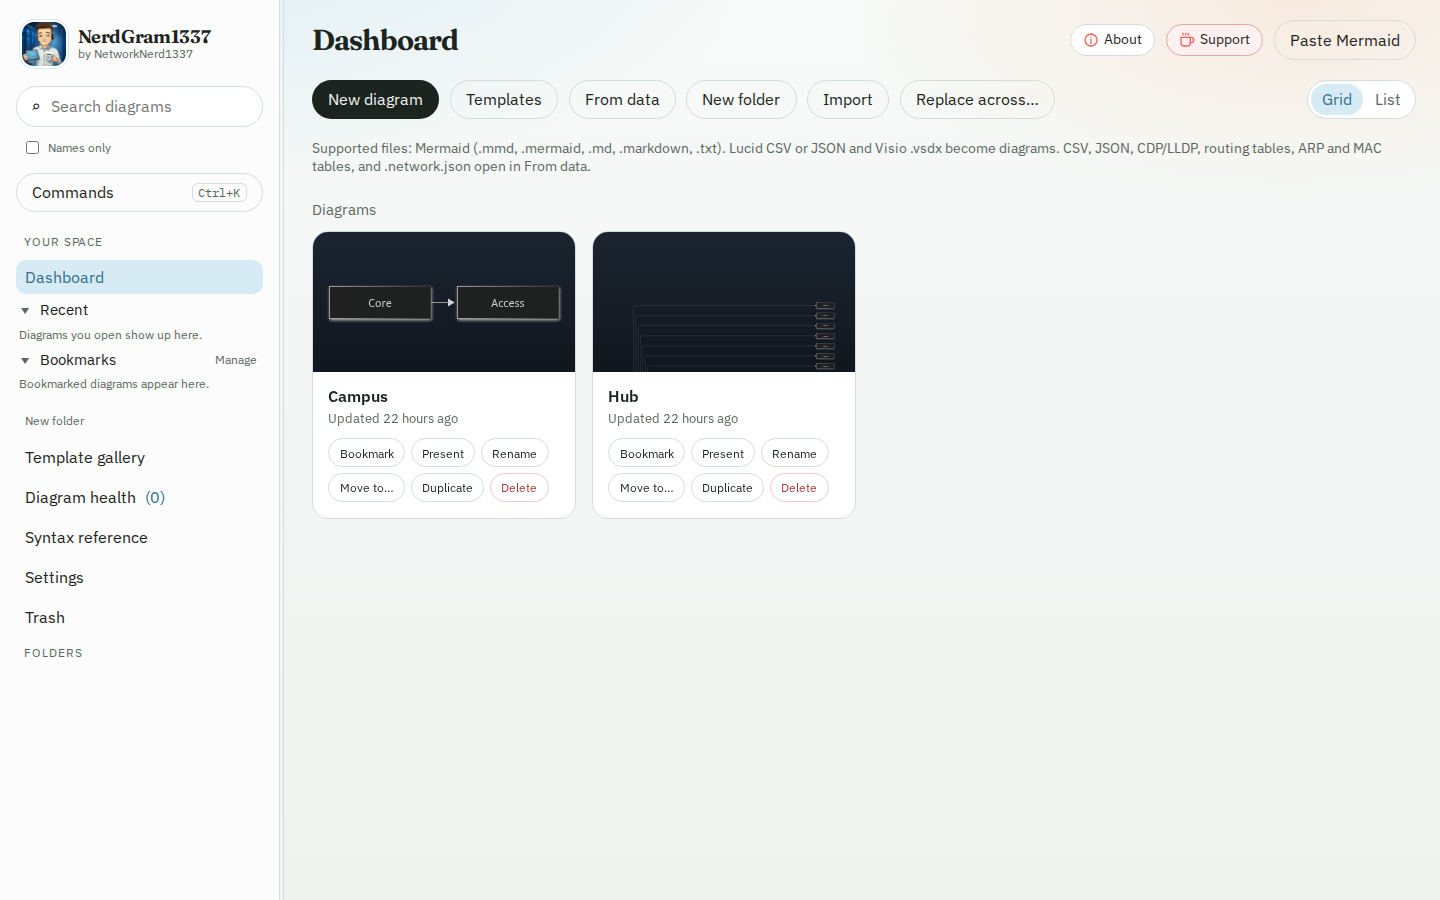
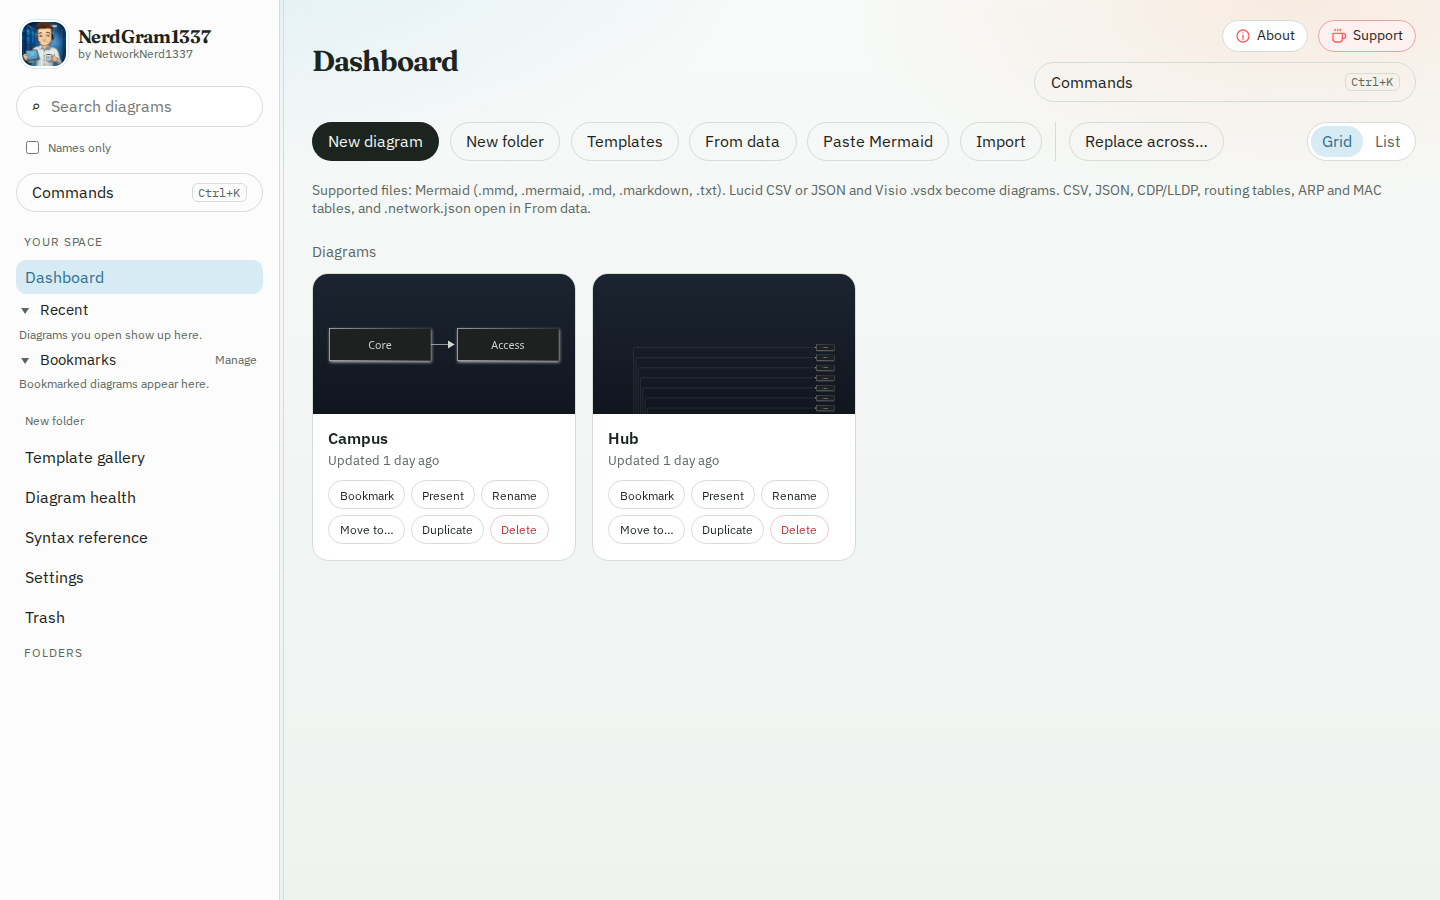
Line up Paste Mermaid with From data and reorder dashboard actions (#286)
Removes the extra Paste Mermaid code pill so both new-diagram screens start the same way. Moves Paste Mermaid out of the header and New folder next to New diagram. The dashboard actions now read New diagram, New folder, Templates, From data, Paste Mermaid, Import, then Replace across last. The header keeps About, Support and Commands.

diff --git a/client/test/entryScreens.test.tsx b/client/test/entryScreens.test.tsx
@@ -1,0 +1,70 @@
+/**
+ * @vitest-environment happy-dom
+ */
+(globalThis as { IS_REACT_ACT_ENVIRONMENT?: boolean }).IS_REACT_ACT_ENVIRONMENT = true;
+import { act, type ReactNode } from "react";
+import { createRoot, type Root } from "react-dom/client";
+import { MemoryRouter } from "react-router-dom";
+import { afterEach, describe, expect, it, vi } from "vitest";
+import { PaletteContext } from "../src/components/commandPaletteContext";
+import { GeneratePage } from "../src/pages/GeneratePage";
+import { NewDiagramPage } from "../src/pages/NewDiagramPage";
+
+vi.mock("../src/api", async () => {
+  const actual = await vi.importActual<typeof import("../src/api")>("../src/api");
+  return {
+    ...actual,
+    api: {
+      ...actual.api,
+      tree: vi.fn(async () => ({ tree: [] })),
+      bookmarks: vi.fn(async () => ({ folders: [], items: [] })),
+      stylePresets: vi.fn(async () => ({ presets: [], defaultPresetId: null })),
+      listTranslators: vi.fn(async () => ({ translators: [] })),
+    },
+  };
+});
+
+describe("new diagram screens", () => {
+  let root: Root | null = null;
+
+  afterEach(() => {
+    act(() => root?.unmount());
+    root = null;
+    document.body.innerHTML = "";
+  });
+
+  async function render(node: ReactNode): Promise<void> {
+    const host = document.createElement("div");
+    document.body.appendChild(host);
+    root = createRoot(host);
+    await act(async () => {
+      root?.render(
+        <MemoryRouter>
+          <PaletteContext.Provider value={{ setHost: () => undefined, openPalette: () => undefined }}>
+            {node}
+          </PaletteContext.Provider>
+        </MemoryRouter>,
+      );
+    });
+    await act(async () => {
+      await new Promise((resolve) => setTimeout(resolve, 0));
+    });
+  }
+
+  it("gives Paste Mermaid a description and no mode pill", async () => {
+    await render(<NewDiagramPage />);
+    expect(document.querySelector("h1")?.textContent).toBe("What do you want to diagram?");
+    expect(document.querySelector(".paste-mode")).toBeNull();
+    expect(document.body.textContent).not.toContain("</>");
+    const lead = document.querySelector(".entry-lead");
+    expect(lead?.textContent).toContain("Paste Mermaid code");
+    expect(lead?.tagName).toBe("P");
+  });
+
+  it("uses the same description spacing on From data", async () => {
+    await render(<GeneratePage />);
+    expect(document.querySelector("h1")?.textContent).toBe("Generate a diagram from data");
+    expect(document.querySelector(".paste-mode")).toBeNull();
+    expect(document.querySelector(".entry-lead")?.textContent).toContain("Network JSON");
+  });
+});

diff --git a/client/src/pages/DashboardPage.tsx b/client/src/pages/DashboardPage.tsx
@@ -16,6 +16,7 @@ import { Modal } from "../components/Modal";
 import { MoveDialog } from "../components/MoveDialog";
 import { Sidebar } from "../components/Sidebar";
 import { WorkspaceShell } from "../components/WorkspaceShell";
+import { CommandsButton } from "../components/CommandPalette";
 import { AboutButton, SupportLink } from "../components/SupportLink";
 import { confirmChoice } from "../lib/confirmChoice";
 import { usePageTitle } from "../hooks/usePageTitle";
@@ -945,9 +946,7 @@ export function DashboardPage() {
           <div className="page-header-actions">
             <AboutButton />
             <SupportLink />
-            <Link className="btn btn-ghost" to="/new">
-              Paste Mermaid
-            </Link>
+            <CommandsButton />
           </div>
         </header>
 
@@ -975,15 +974,18 @@ export function DashboardPage() {
               <button type="button" className="btn btn-primary" onClick={openCreateDiagram}>
                 New diagram
               </button>
+              <button type="button" className="btn btn-ghost" onClick={openCreateFolder}>
+                New folder
+              </button>
               <Link className="btn btn-ghost" to={`/templates?folder=${encodeURIComponent(folder)}`}>
                 Templates
               </Link>
               <Link className="btn btn-ghost" to={`/generate?folder=${encodeURIComponent(folder)}`}>
                 From data
               </Link>
-              <button type="button" className="btn btn-ghost" onClick={openCreateFolder}>
-                New folder
-              </button>
+              <Link className="btn btn-ghost" to="/new">
+                Paste Mermaid
+              </Link>
               <button
                 type="button"
                 className="btn btn-ghost"
@@ -992,6 +994,7 @@ export function DashboardPage() {
               >
                 Import
               </button>
+              <span className="toolbar-split" aria-hidden="true" />
               <button type="button" className="btn btn-ghost" onClick={() => openWorkspaceReplace({ folder })}>
                 Replace across…
               </button>

diff --git a/client/test/dashboardMutePill.test.tsx b/client/test/dashboardMutePill.test.tsx
@@ -267,6 +267,26 @@ describe("dashboard warning pill follows the editor mute toggle", () => {
     render();
     await flush();
     expect(document.body.textContent).toContain("Wan");
+    const header = document.querySelector(".page-header-actions");
+    expect(header?.textContent).not.toContain("Paste Mermaid");
+    expect(header?.textContent).not.toContain("New folder");
+    expect(header?.querySelector(".about-link")).toBeTruthy();
+    expect(header?.querySelector(".support-link")).toBeTruthy();
+    expect(header?.querySelector(".commands-button")).toBeTruthy();
+    const createLabels = [...(document.querySelector(".toolbar")?.querySelectorAll("a.btn, button.btn") ?? [])].map(
+      (item) => item.textContent?.trim(),
+    );
+    expect(createLabels).toEqual([
+      "New diagram",
+      "New folder",
+      "Templates",
+      "From data",
+      "Paste Mermaid",
+      "Import",
+      "Replace across…",
+    ]);
+    expect(document.querySelector(".toolbar-split")).toBeTruthy();
+    expect(document.querySelector('.toolbar a[href="/new"]')?.className).toContain("btn-ghost");
     expect(document.querySelector(".diagram-card-health")).toBeNull();
     expect(document.querySelector(".attention-badge")).toBeNull();
     expect(document.querySelector('a[href="/health"]')?.getAttribute("aria-label")).toBe("Diagram health");

diff --git a/client/src/index.css b/client/src/index.css
@@ -441,6 +441,14 @@ a {
   margin-bottom: 1.25rem;
 }
 
+.toolbar-split {
+  width: 1px;
+  align-self: stretch;
+  min-height: 1.6rem;
+  margin: 0 0.15rem;
+  background: var(--line);
+}
+
 .btn {
   display: inline-flex;
   align-items: center;
@@ -881,16 +889,22 @@ a {
   letter-spacing: -0.03em;
 }
 
-.paste-mode {
+@media (max-width: 640px) {
+  .paste-page {
+    padding: 1.25rem 0.85rem 2rem;
+  }
+
+  .paste-shell h1 {
+    font-size: 1.85rem;
+  }
+}
+
+.entry-lead {
   align-self: center;
-  display: inline-flex;
-  align-items: center;
-  gap: 0.45rem;
-  background: var(--ink);
-  color: var(--bg);
-  border-radius: 999px;
-  padding: 0.45rem 0.9rem;
-  font-size: 0.92rem;
+  max-width: 40rem;
+  margin: 0;
+  color: var(--ink-soft);
+  text-align: center;
 }
 
 .paste-box {
@@ -2517,7 +2531,8 @@ body.is-col-resizing * {
   }
 
   .main .page-header-actions .about-link,
-  .main .page-header-actions .support-link {
+  .main .page-header-actions .support-link,
+  .main .page-header-actions .commands-button {
     display: none;
   }
 
@@ -4322,11 +4337,6 @@ body[data-presenting="true"] .support-link {
 
 .generate-shell {
   width: min(880px, 100%);
-}
-
-.generate-lead {
-  color: var(--ink-soft);
-  margin-top: 0;
 }
 
 .generate-hint {

diff --git a/client/test/healthLayout.test.tsx b/client/test/healthLayout.test.tsx
@@ -5,6 +5,7 @@ import { act } from "react";
 import { createRoot, type Root } from "react-dom/client";
 import { MemoryRouter } from "react-router-dom";
 import { beforeEach, afterEach, describe, expect, it, vi } from "vitest";
+import { PaletteContext } from "../src/components/commandPaletteContext";
 import { HealthPage } from "../src/pages/HealthPage";
 
 vi.mock("../src/api", async () => {
@@ -58,7 +59,9 @@ describe("Diagram health layout", () => {
     await act(async () => {
       root?.render(
         <MemoryRouter initialEntries={["/health"]}>
-          <HealthPage />
+          <PaletteContext.Provider value={{ setHost: () => undefined, openPalette: () => undefined }}>
+            <HealthPage />
+          </PaletteContext.Provider>
         </MemoryRouter>,
       );
     });

diff --git a/client/src/components/WorkspaceShell.tsx b/client/src/components/WorkspaceShell.tsx
@@ -2,6 +2,7 @@ import type { CSSProperties, ReactNode } from "react";
 import type { useSidebarWidth } from "../hooks/useSidebarWidth";
 import { SIDEBAR_STEP } from "../lib/sidebarWidth";
 import { EditorDivider } from "./EditorDivider";
+import { CommandsButton } from "./CommandPalette";
 import { AboutButton, SupportLink } from "./SupportLink";
 
 type SidebarWidth = ReturnType<typeof useSidebarWidth>;
@@ -42,6 +43,7 @@ export function WorkspaceShell({
       <div className="narrow-app-bar">
         <AboutButton />
         <SupportLink />
+        <CommandsButton />
       </div>
     </div>
   );

diff --git a/client/src/pages/GeneratePage.tsx b/client/src/pages/GeneratePage.tsx
@@ -144,7 +144,7 @@ export function GeneratePage() {
           </div>
         </header>
         <h1>Generate a diagram from data</h1>
-        <p className="generate-lead">
+        <p className="entry-lead">
           Paste a links table, a list of nodes and edges, Cisco CDP, LLDP neighbor output, a Cisco routing table, ARP and MAC tables, or network JSON.
           Network JSON draws a Layer 3 or Layer 2 view. The diagram stays tied to that data file so it can be
           refreshed.

diff --git a/client/src/pages/NewDiagramPage.tsx b/client/src/pages/NewDiagramPage.tsx
@@ -103,10 +103,7 @@ export function NewDiagramPage() {
           </div>
         </header>
         <h1>What do you want to diagram?</h1>
-        <div className="paste-mode">
-          <span aria-hidden="true">{`</>`}</span>
-          Paste Mermaid code
-        </div>
+        <p className="entry-lead">Paste Mermaid code and save it as a diagram.</p>
 
         {error && <div className="error-banner">{error}</div>}
 

diff --git a/docs/features.md b/docs/features.md
@@ -133,6 +133,8 @@ Font family is a list: **Default**, **System UI**, **Sans-serif**, **Serif**, **
 
 The built-in Mermaid themes are `default`, `neutral`, `dark`, `forest`, `base`, `neo`, `neo-dark`, `redux`, `redux-dark`, `redux-color`, and `redux-dark-color`. Looks are `classic`, `handDrawn`, and `neo`. Layouts are `dagre` and `elk`.
 
+On the dashboard the create row is **New diagram**, **New folder**, **Templates**, **From data**, **Paste Mermaid**, **Import**, then a divider and **Replace across…**. **Paste Mermaid** uses the same style as the other create buttons. The top-right of that page is **About**, **Support**, and **Commands**. **Commands** also stays in the sidebar. The command palette still lists **Paste Mermaid**. The Paste Mermaid page heading is **What do you want to diagram?**, with a short description under it and the same spacing as **From data**. There is no mode pill.
+
 **New diagram**, **Paste Mermaid**, **From data**, and **Use template** ask for a **File name** before the `.mmd` file is written. The field starts empty. Paste Mermaid fills it from the front matter title, then a leading `%%` comment, then the first node label, and stops filling it once you type. An empty name is not saved as `Untitled.mmd`. If the folder already has that name, the page says so and offers the next free name, such as `Name 2`. Those screens also offer a style preset. New diagram, Paste Mermaid, and From data start on the default preset when one is set, and can choose **No preset**. Use template starts on **Keep template style**.
 
 The editor header and the dashboard show the file name, without `.mmd`. A front matter title does not replace that name. When a title is set and it is not the same as the file name, the card shows it on a smaller second line. A title that matches the file name does not repeat. The rendered diagram and **Present** still use the title, as Mermaid does. A description is shown under the name. Tags are chips. Click a chip, or use the tag row, to filter the dashboard. Search matches the file name and the title, and also the description, notes, and tags. A file name match is listed before a title, tag, description, note, or label match.

diff --git a/CHANGELOG.md b/CHANGELOG.md
@@ -9,6 +9,7 @@ Release notes for GitHub Releases. The heading for a release is `## X.Y.Z "Code 
 - **Changed:** Diagram health in the sidebar shows a count only when there is at least one issue. A check that has not run, or that found nothing, leaves the link as Diagram health. The accessible name is Diagram health, or Diagram health, N issues (#281).
 - **Fixed:** The published CLI depends on zod ^4.6.6, and its Puppeteer range matches the server so the install does not also pull zod 3. zod before 4.6.6 can accumulate validation issues without a bound (GHSA-mrhx-c7xc-m3w5, #279).
 - **Changed:** Version labels show the code name without quotes, as in v2.1.11 Azimuth. That includes About, the upgrade panel, toasts, `nerdgram --version`, the startup log, and the generated GitHub release title. An up-to-date install says it is running that version, the latest release. A newer release is named on its own. The dialog does not say up to date twice (#283).
+- **Changed:** Paste Mermaid no longer shows a mode pill under the heading. The heading, description, and spacing match From data. Each screen keeps its own heading. On the dashboard the create row is New diagram, New folder, Templates, From data, Paste Mermaid, Import, then Replace across…. About, Support, and Commands stay in the top-right. Commands also stays in the sidebar (#285).
 
 ## 2.1.11 "Azimuth" - 2026-11-22
 
